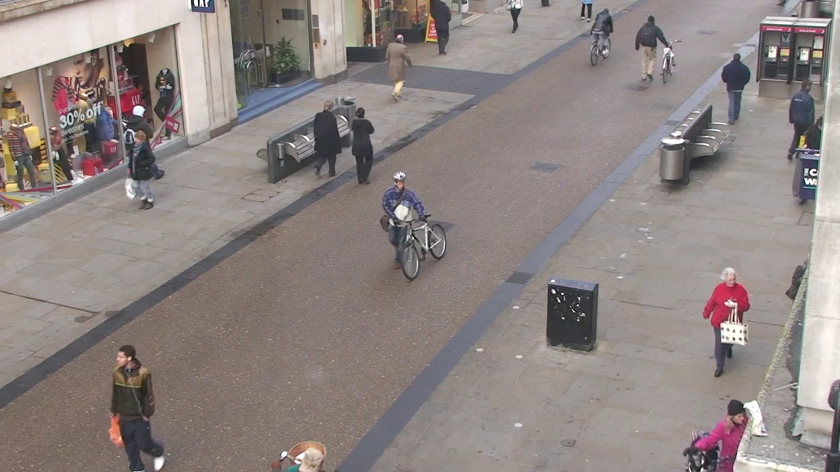
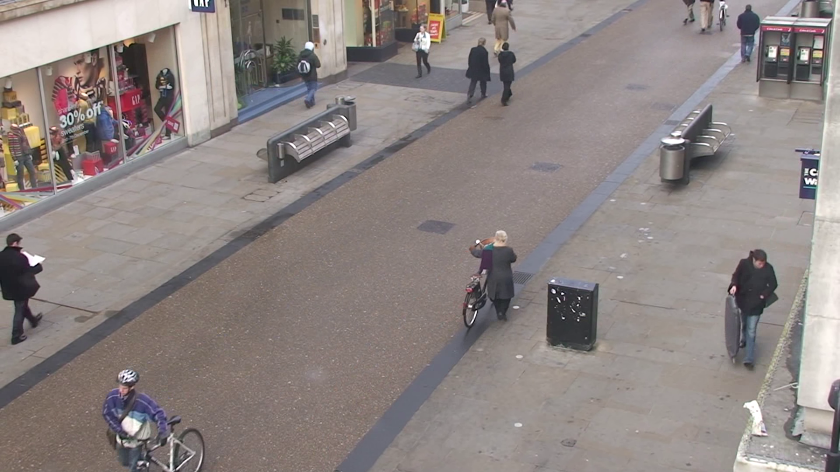
Update

diff --git a/Main.py b/Main.py
@@ -316,8 +316,8 @@ vid_fps = vid_cap.get(cv2.CAP_PROP_FPS)
 
 ########## (Subsection) Choose clip region
 
-clip_start_s = 0
-clip_end_s = 10
+clip_start_s = 5
+clip_end_s = 15
 
 clip_start = int(clip_start_s * vid_fps)
 clip_end = int(clip_end_s * vid_fps)
@@ -567,6 +567,9 @@ for frame_idx in range(clip_start, clip_end + 1):
             fig.add_axes(ax)
             seaborn.heatmap(heatmap_matrix, cbar = False)
             plt.savefig("./heatmap.png")
+
+    cv2.imwrite(f"./Export/3D_{frame_idx}.png", frame)
+    cv2.imwrite(f"./Export/2D_{frame_idx}.png", bird_image)
 
 end_time = datetime.now()
 print(''), print(colored('...','white')), print(''), print(f'Ended at {end_time.strftime("%H:%M:%S")} ({end_time-start_time})'),print(''), print(colored('...','white')), print('')
